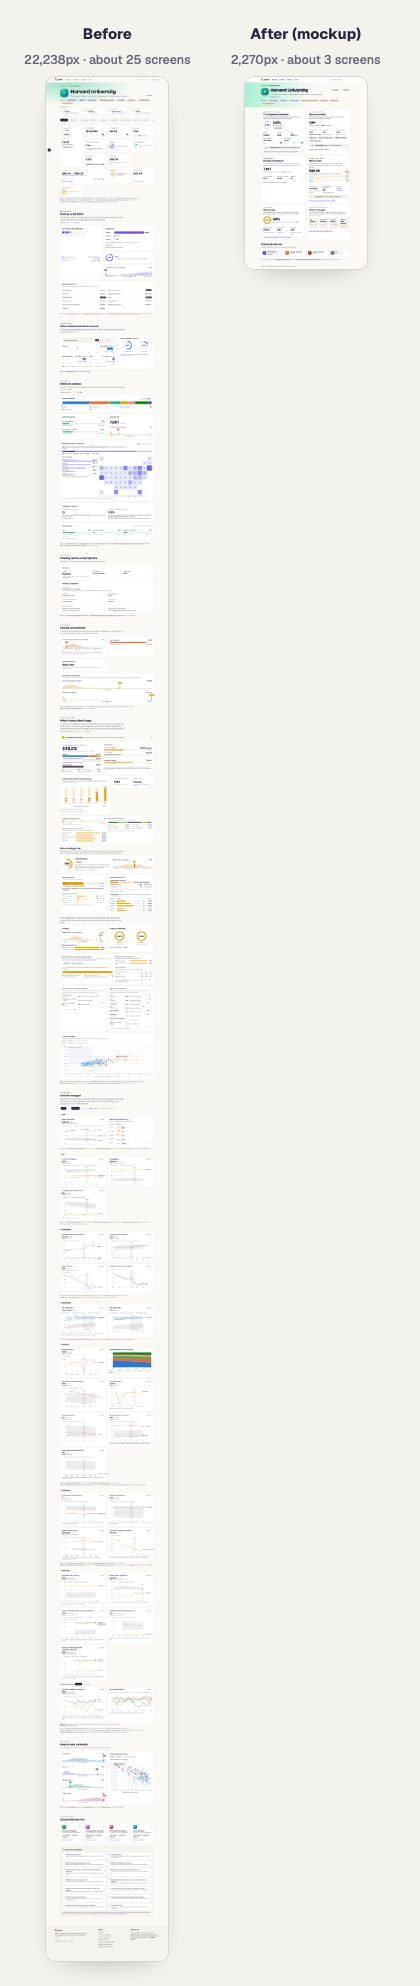
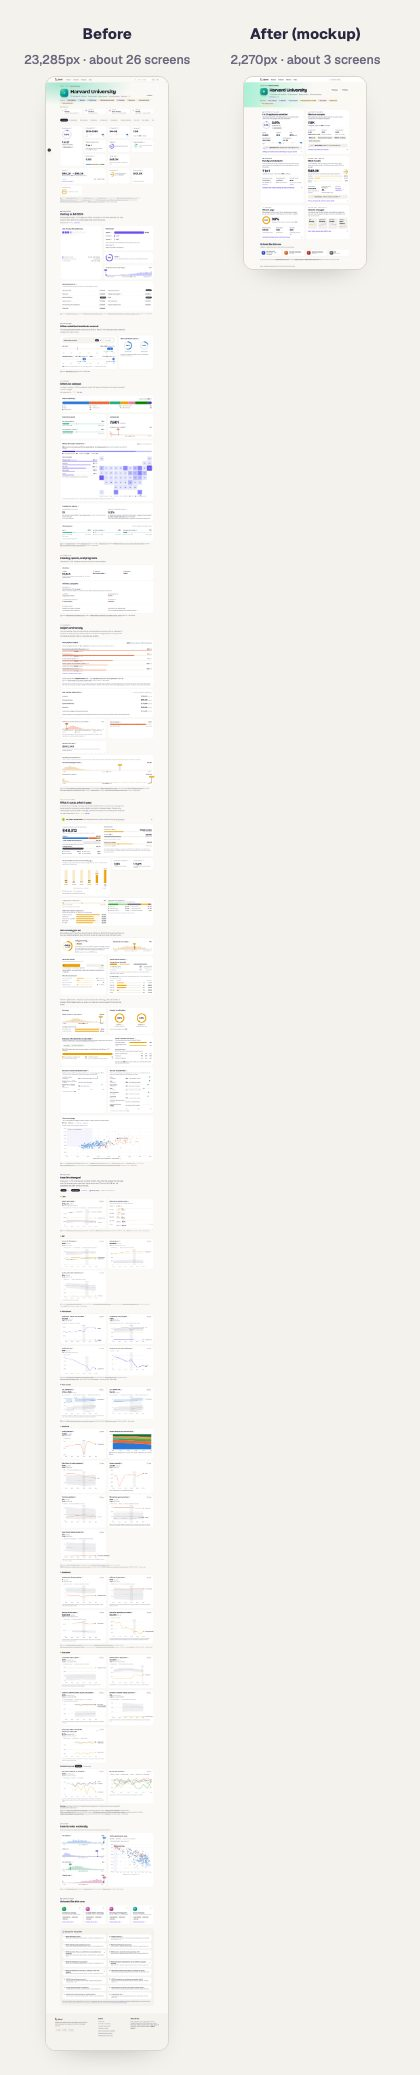
Profile redesign spec: account for wave 3
Academics is now majors and faculty: the route, the card's figures,
the review, and the measurements (23,285px desktop, 33,033px tablet,
19,061px phone after wave 3) are updated, the mockup's Academics card
shows Harvard's real top major and top-earning major, and the spec's
full overview image is the whole page rather than the first screen.

Changed region(s): [[0.1238, 0.0, 0.3714, 0.9678], [0.5571, 0.0, 0.8667, 0.1561], [0.0619, 0.0, 0.0929, 0.0312]]

diff --git a/specs/profile-redesign.md b/specs/profile-redesign.md
@@ -6,15 +6,15 @@
 
 ## Why
 The profile has grown with every data wave. It began as six sections and is now ten, each with sub-blocks that
-were added one PR at a time. Measured on 2026-10-02 (Harvard; Ohio State is within 5%):
+were added one PR at a time. Measured on 2026-10-02 after wave 3 merged (Harvard; Ohio State is within 5%):
 
 | Width | Page height | Screens | Longest sections |
 |---|---|---|---|
-| Desktop 1440 | 22,238px | ~25 | Over time 7,561 · Cost & outcomes 4,330 · Students 1,959 |
-| Tablet 810 (iPad) | 31,854px | ~30 | Over time 12,403 · Cost & outcomes 6,519 · Students 2,177 |
-| Phone 390 | 17,690px | ~21 | Cost & outcomes 4,797 · Students 2,582 · Admissions 1,640 |
+| Desktop 1440 | 23,285px | ~26 | Over time 7,561 · Cost & outcomes 4,330 · Academics 1,965 |
+| Tablet 810 (iPad) | 33,033px | ~31 | Over time 12,403 · Cost & outcomes 6,519 · Academics 2,184 |
+| Phone 390 | 19,061px | ~23 | Cost & outcomes 4,797 · Academics 2,642 · Students 2,582 |
 
-380 SVG charts render on one page. What the review found, section by section:
+395 SVG charts render on one page. What the review found, section by section:
 - **The overview answers the main questions well** (acceptance, scores, size, cost, earnings, graduation) in
   thirteen tiles, but every one of those numbers appears again further down, so the page starts by repeating itself.
 - **The section nav has ten items** and overflows the viewport even at 1440px ("Sim…" is cut off). On a phone it is
@@ -25,10 +25,14 @@ were added one PR at a time. Measured on 2026-10-02 (Harvard; Ohio State is with
   groups fold and it is 750px; on tablets nothing folds because folding only happens below 640px, so a tablet gets
   the longest page of all. Ten-year history also shows up in four places: the hero's four trend cards, the "10 years"
   tile, "Over time" links under section takeaways, and the section itself.
+- **Academics doubled with wave 3** (merged the same day, [majors.md](data-expansion/majors.md)): the most popular
+  majors list with its search and "show all programs", the fastest-growing field, and the top-earning majors with
+  expandable earnings rows now sit under the faculty figures. It is the right content for a topic page and the wrong
+  amount for a section of one.
 - **Several desktop blocks are mostly empty space**: the 100-applicant waffle for a 3.6% admit rate is a 450px
   panel with four colored squares; Admissions' right column is three stacked cards next to it.
 - **Tablets get the desktop content in one column.** The 2-column grids collapse at 810px but nothing is folded or
-  reflowed, so the tablet page is 43% taller than desktop.
+  reflowed, so the tablet page is 42% taller than desktop.
 - **Sources lines close every section** (seven of them, three lines each on phones). They matter, but as the last
   thing in every section they add length without adding orientation.
 - What works and must survive: the hero, "Known for" chips, the takeaway sentence that opens each section, the
@@ -115,7 +119,7 @@ The "before" images are the live site on 2026-10-02. The "after" images are a st
 type, colors, and Harvard's real figures to show the shape of the design; the built version will differ in detail.
 
 ![Harvard's profile today and the overview mockup, whole pages at the same scale](/roadmap/profile-redesign/desktop-length.jpg)
-*Whole pages at the same scale, desktop: 22,238px today against about 2,300px for the overview. The detail moves to
+*Whole pages at the same scale, desktop: 23,285px today against about 2,300px for the overview. The detail moves to
 topic pages rather than disappearing.*
 
 ![First screen on desktop, today and in the mockup](/roadmap/profile-redesign/desktop-fold.jpg)
@@ -130,7 +134,7 @@ slimmer hero and the first two topic cards, each with its headline figure, suppo
 list replaces the ten-item section nav, and today's admissions and test-score blocks follow in full.*
 
 ![The overview on a phone, today and in the mockup](/roadmap/profile-redesign/phone.jpg)
-*On a phone: today's first screen and 17,690px page; the mockup's first screen; and the whole mockup overview, about
+*On a phone: today's first screen and 19,061px page; the mockup's first screen; and the whole mockup overview, about
 3,800px, where each card is a tap to its topic page.*
 
 ## Design: overview cards and topic pages
@@ -141,7 +145,7 @@ list replaces the ten-item section nav, and today's admissions and test-score bl
 | `/schools/{id}` | Overview: hero, topic cards, similar schools, sources | Top 50 prerendered, the rest on first visit (as today) |
 | `/schools/{id}/admissions` | Getting in, test scores, what they look at | On demand, daily revalidation |
 | `/schools/{id}/students` | Who's on campus, campus life (housing, sports, programs, services) | same |
-| `/schools/{id}/academics` | Faculty and students; majors and earnings by major when built ([majors.md](data-expansion/majors.md)) | same |
+| `/schools/{id}/academics` | Majors and faculty: most popular majors with search, the fastest-growing field, top-earning majors ([majors.md](data-expansion/majors.md), [field-of-study.md](data-expansion/field-of-study.md)), student to faculty ratio, faculty, spending | same |
 | `/schools/{id}/cost` | What students pay, aid, borrowing | same |
 | `/schools/{id}/outcomes` | Earnings, staying and finishing, 8-year outcomes, graduation by group, cost vs earnings map | same |
 | `/schools/{id}/history` | Over time: every chart group, with the controls | same |
@@ -160,8 +164,9 @@ outcomes splits in two. Old anchors keep working: a small client script on the o
    - a **headline figure** (the one number people quote: acceptance rate ring, SAT range bar, undergrads, student
      to faculty ratio, average cost, graduation rate) with its percentile line ("larger than 85% of colleges");
    - **two to four supporting figures** in a compact row (Admissions: applied, admitted, yield; Students: diversity
-     bar, Pell, setting; Academics: faculty full-time share, instruction spending; Cost: aid generosity, net price for
-     the middle income band; Outcomes: median earnings, median debt, retention);
+     bar, Pell, setting; Academics: the most popular major and its share, the top-earning major, faculty full-time
+     share; Cost: aid generosity, net price for the middle income band; Outcomes: median earnings, median debt,
+     retention);
    - a **ten-year line** where history exists ("Applications +57% since fall 2014"), replacing the hero trend cards
      and the "10 years" tile;
    - a footer link, the whole card clickable: "Getting in, in detail →".

diff --git a/release-notes/profile-redesign.md b/release-notes/profile-redesign.md
@@ -20,7 +20,7 @@ plan, including the four layouts that were considered and how they were scored, 
 
 ## Behind the scenes
 
-The review measured the profile at three widths (about 22,000 pixels tall on a desktop and 32,000 on a tablet, with
-380 charts on one page), looked at how BigFuture, CollegeVine, Appily, Niche, US News, and College Scorecard organize
+The review measured the profile at three widths (about 23,000 pixels tall on a desktop and 33,000 on a tablet, with
+395 charts on one page), looked at how BigFuture, CollegeVine, Appily, Niche, US News, and College Scorecard organize
 the same information, and applied the usability research on tabs, accordions, and progressive disclosure. The
 roadmap gains a "Design and usability" group for this kind of work. Nothing is built yet.
